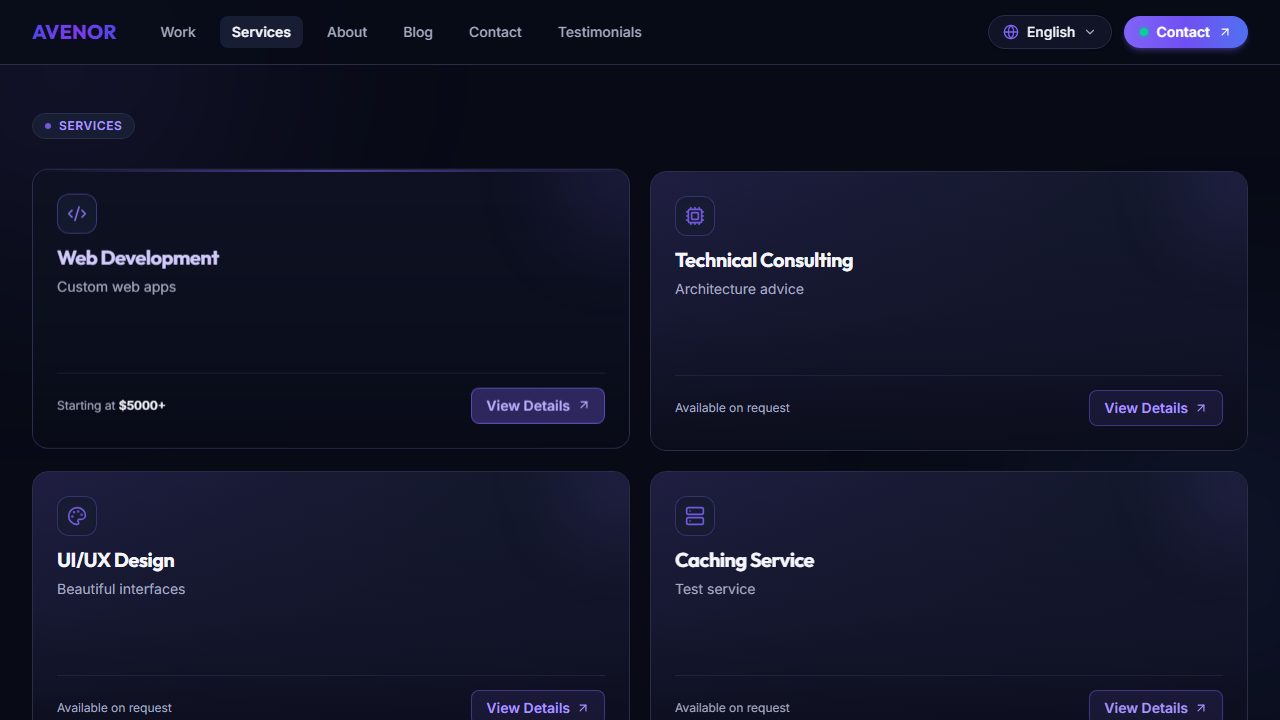
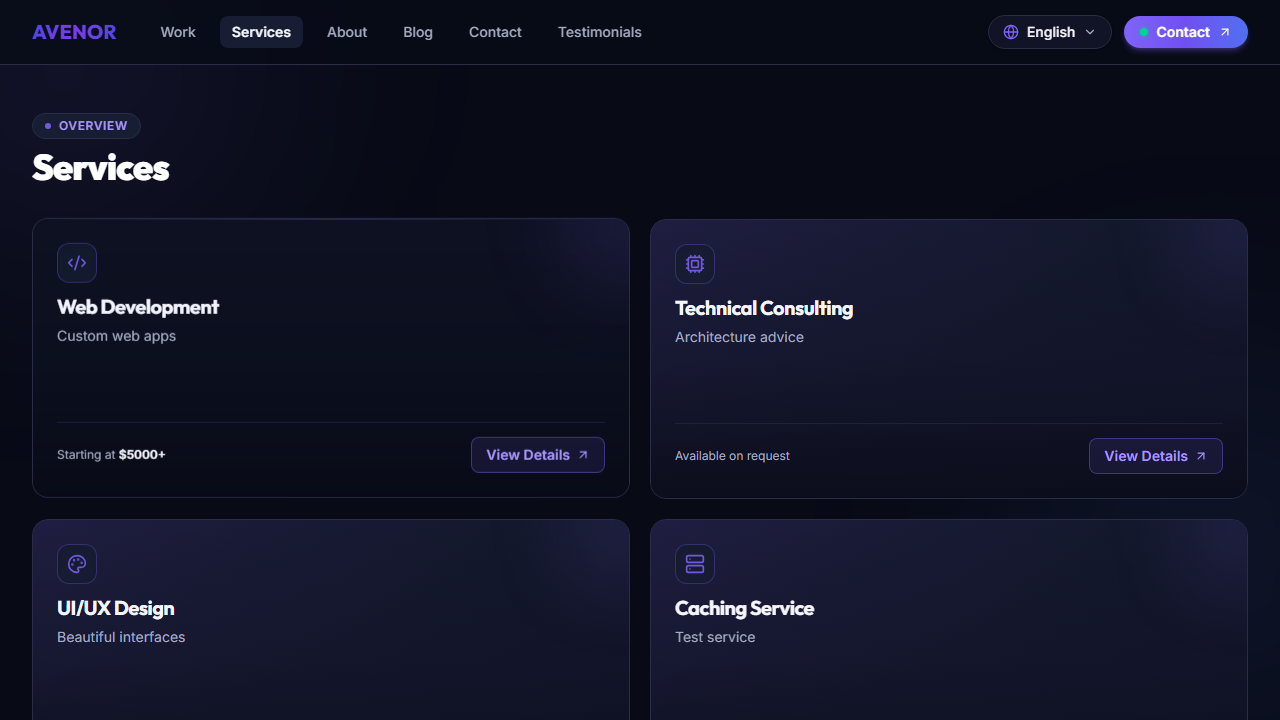
fix: Fixing the blog page build bug

diff --git a/app/[locale]/(public)/about/page.tsx b/app/[locale]/(public)/about/page.tsx
@@ -89,7 +89,7 @@ export default async function AboutPage() {
           <div className="relative z-10 grid grid-cols-1 md:grid-cols-12 gap-8 lg:gap-10 items-stretch">
             {/* Cinematic Profile Visual on Left (Vertical Composition) */}
             <div className="md:col-span-5 lg:col-span-4 flex flex-col items-center justify-center">
-              <div className="relative w-full max-w-[280px] sm:max-w-[320px] md:max-w-none aspect-[3/4] rounded-2xl overflow-hidden border border-[#8063F7]/40 bg-[#171D32] shadow-2xl shadow-black/50 group-hover:border-[#8063F7]/70 group-hover:shadow-[0_12px_36px_rgba(128,99,247,0.2)] transition-all duration-500 flex items-center justify-center">
+              <div className="relative w-48 h-48 md:w-full md:h-auto max-w-[280px] sm:max-w-[320px] md:max-w-none aspect-[3/4] rounded-2xl overflow-hidden border border-[#8063F7]/40 bg-[#171D32] shadow-2xl shadow-black/50 group-hover:border-[#8063F7]/70 group-hover:shadow-[0_12px_36px_rgba(128,99,247,0.2)] transition-all duration-500 flex items-center justify-center">
                 {avatarMedia ? (
                   <MediaRenderer
                     url={avatarMedia.url}
@@ -231,7 +231,7 @@ export default async function AboutPage() {
                           {new Date(exp.startDate).getFullYear()} – {exp.endDate ? new Date(exp.endDate).getFullYear() : t('present')}
                         </span>
                       </div>
-                      <p className="text-xs sm:text-sm font-semibold text-[#8063F7]">
+                      <p className="text-xs sm:text-sm font-semibold text-[#A995FF]">
                         {exp.organization}
                       </p>
                       {exp.description && (

diff --git a/app/[locale]/(public)/blog/page.tsx b/app/[locale]/(public)/blog/page.tsx
@@ -64,15 +64,14 @@ export default async function BlogIndexPage({ searchParams }: { searchParams: Pr
           {/* Title and description on left */}
           <div className="space-y-2 max-w-xl">
             <div className="flex items-center gap-2">
-
               <span className="inline-flex items-center gap-2 rounded-full border border-[#292D45] bg-[#171D32] px-3 py-1 text-xs font-semibold uppercase tracking-wider text-[#A995FF]">
                 <span className="h-1.5 w-1.5 rounded-full bg-[#8063F7] animate-pulse" />
-
-                {t('title')}
+                Articles
               </span>
             </div>
-
-
+            <h1 className="text-3xl sm:text-4xl font-heading font-black tracking-tight text-white">
+              {t('title')}
+            </h1>
           </div>
 
           {/* Search field and compact search action on right */}
@@ -165,7 +164,7 @@ export default async function BlogIndexPage({ searchParams }: { searchParams: Pr
                 {/* Left-side Text: Vertically aligned along left edge and vertically centered in card */}
                 <div className="my-auto space-y-1.5">
                   <h2 className="font-heading text-lg sm:text-xl font-bold tracking-tight text-[#F5F6FC] transition-colors group-hover:text-[#A995FF]">
-                    <Link href={`/blog/${post.slug}`}>{post.title}</Link>
+                    <Link href={`/blog/${post.slug}`} className="hover:underline">{post.title}</Link>
                   </h2>
 
                   <p className="text-sm font-normal text-[#A5ABC1] leading-relaxed line-clamp-3">

diff --git a/app/[locale]/(public)/contact/page.tsx b/app/[locale]/(public)/contact/page.tsx
@@ -40,11 +40,9 @@ export default async function ContactPage() {
         <div className="space-y-2.5 max-w-2xl">
           <div className="flex flex-wrap items-center gap-2.5">
             <div className="flex items-center gap-2">
-
               <span className="inline-flex items-center gap-2 rounded-full border border-[#292D45] bg-[#171D32] px-3 py-1 text-xs font-semibold uppercase tracking-wider text-[#A995FF]">
                 <span className="h-1.5 w-1.5 rounded-full bg-[#8063F7] animate-pulse" />
-
-                {t('title')}
+                Get in Touch
               </span>
             </div>
             {profile?.availabilityStatus && (
@@ -54,6 +52,9 @@ export default async function ContactPage() {
               </span>
             )}
           </div>
+          <h1 className="text-3xl sm:text-4xl font-heading font-black tracking-tight text-white">
+            {t('title')}
+          </h1>
 
           <p className="text-sm sm:text-base text-[#A5ABC1] leading-relaxed">
             {t('subtitle')}
@@ -82,7 +83,7 @@ export default async function ContactPage() {
                   </span>
                   <a
                     href={`mailto:${publicEmail}`}
-                    className="text-sm sm:text-base font-semibold text-[#8063F7] hover:text-white transition-colors break-all block"
+                    className="text-sm sm:text-base font-semibold text-[#A995FF] hover:text-white transition-colors break-all block"
                   >
                     {publicEmail}
                   </a>

diff --git a/app/[locale]/(public)/privacy/page.tsx b/app/[locale]/(public)/privacy/page.tsx
@@ -42,7 +42,7 @@ export default async function PrivacyPage() {
       {/* Main Content Card */}
       <div className="group relative overflow-hidden rounded-2xl border border-[#292D45] bg-[#101426] p-6 sm:p-8 md:p-10 shadow-xl transition-all duration-300 hover:border-[#8063F7]/70 hover:shadow-2xl hover:shadow-[#8063F7]/10">
         <div className="pointer-events-none absolute top-0 left-0 right-0 h-[1.5px] bg-gradient-to-r from-transparent via-[#8063F7] to-transparent opacity-0 group-hover:opacity-100 transition-opacity duration-300 z-20" />
-        <div className="prose prose-invert max-w-none text-[#F5F6FC] prose-headings:font-heading prose-headings:text-[#F5F6FC] prose-headings:font-bold prose-headings:tracking-tight prose-p:text-[#A5ABC1] prose-p:leading-relaxed prose-li:text-[#A5ABC1] prose-strong:text-[#F5F6FC] prose-a:text-[#A995FF] hover:prose-a:text-white">
+        <div className="space-y-6 text-[#F5F6FC] [&>h2]:text-lg [&>h2]:sm:text-xl [&>h2]:font-bold [&>h2]:font-heading [&>h2]:text-[#F5F6FC] [&>h2]:pt-4 [&>h2]:border-t [&>h2]:border-[#292D45] [&>h2:first-child]:pt-0 [&>h2:first-child]:border-0 [&>p]:text-sm [&>p]:text-[#D0D4E4] [&>p]:leading-relaxed [&>ul]:space-y-2 [&>ul]:pl-5 [&>ul]:list-disc [&>ul>li]:text-sm [&>ul>li]:text-[#D0D4E4] [&_strong]:text-[#F5F6FC] [&_strong]:font-semibold">
           <h2>{t('h1')}</h2>
           <p>{t('p1_1')}</p>
           <ul>

diff --git a/app/[locale]/(public)/terms/page.tsx b/app/[locale]/(public)/terms/page.tsx
@@ -29,7 +29,7 @@ export default function TermsPage() {
       {/* Main Content Card */}
       <div className="group relative overflow-hidden rounded-2xl border border-[#292D45] bg-[#101426] p-6 sm:p-8 md:p-10 shadow-xl transition-all duration-300 hover:border-[#8063F7]/70 hover:shadow-2xl hover:shadow-[#8063F7]/10">
         <div className="pointer-events-none absolute top-0 left-0 right-0 h-[1.5px] bg-gradient-to-r from-transparent via-[#8063F7] to-transparent opacity-0 group-hover:opacity-100 transition-opacity duration-300 z-20" />
-        <div className="prose prose-invert max-w-none text-[#F5F6FC] prose-headings:font-heading prose-headings:text-[#F5F6FC] prose-headings:font-bold prose-headings:tracking-tight prose-p:text-[#A5ABC1] prose-p:leading-relaxed prose-li:text-[#A5ABC1] prose-strong:text-[#F5F6FC] prose-a:text-[#A995FF] hover:prose-a:text-white">
+        <div className="space-y-6 text-[#F5F6FC] [&>h2]:text-lg [&>h2]:sm:text-xl [&>h2]:font-bold [&>h2]:font-heading [&>h2]:text-[#F5F6FC] [&>h2]:pt-4 [&>h2]:border-t [&>h2]:border-[#292D45] [&>h2:first-child]:pt-0 [&>h2:first-child]:border-0 [&>p]:text-sm [&>p]:text-[#D0D4E4] [&>p]:leading-relaxed [&_strong]:text-[#F5F6FC] [&_strong]:font-semibold">
           <h2>{t('h1')}</h2>
           <p>{t('p1')}</p>
 

diff --git a/app/[locale]/(public)/services/page.tsx b/app/[locale]/(public)/services/page.tsx
@@ -76,14 +76,14 @@ export default async function ServicesPage() {
         {/* Compact, left-aligned page header aligned with the card grid */}
         <div className="mb-6 sm:mb-8 space-y-2">
           <div className="flex items-center gap-2">
-
             <span className="inline-flex items-center gap-2 rounded-full border border-[#292D45] bg-[#171D32] px-3 py-1 text-xs font-semibold uppercase tracking-wider text-[#A995FF]">
               <span className="h-1.5 w-1.5 rounded-full bg-[#8063F7] animate-pulse" />
-
-              {t('title')}
+              Overview
             </span>
           </div>
-
+          <h1 className="text-3xl sm:text-4xl font-heading font-black tracking-tight text-white">
+            {t('title')}
+          </h1>
         </div>
 
         {/* Services Grid: balanced two-column layout on desktop, 1 column on mobile, 16-20px gap */}

diff --git a/app/[locale]/(public)/page.tsx b/app/[locale]/(public)/page.tsx
@@ -726,12 +726,11 @@ export default async function HomePage(props?: {
                   </div>
                   <Link
                     href="/about"
-
                     className="group flex items-center gap-0.5 text-xs font-semibold text-[#A995FF] transition-colors hover:text-white"
                   >
                     <span className="inline-flex items-center gap-1.5 rounded-full border border-[#10B981]/25 bg-[#10B981]/10 px-2.5 py-1 text-xs font-medium text-[#10B981]">
                       <span className="h-1.5 w-1.5 rounded-full bg-[#10B981] animate-pulse" />
-                      {t('readFullBio')}
+                      {t('learnMore')}
                       <ArrowUpRight className="h-3.5 w-3.5 transition-transform group-hover:-translate-y-0.5 group-hover:translate-x-0.5" />
                     </span>
                   </Link>

diff --git a/app/[locale]/(public)/work/page.tsx b/app/[locale]/(public)/work/page.tsx
@@ -147,15 +147,14 @@ export default async function WorkPage({
         {/* Compact, left-aligned page header aligned with the card grid */}
         <div className="mb-6 space-y-2">
           <div className="flex items-center gap-2">
-
             <span className="inline-flex items-center gap-2 rounded-full border border-[#292D45] bg-[#171D32] px-3 py-1 text-xs font-semibold uppercase tracking-wider text-[#A995FF]">
               <span className="h-1.5 w-1.5 rounded-full bg-[#8063F7] animate-pulse" />
-
-              {t('title')}
+              Portfolio
             </span>
           </div>
-
-
+          <h1 className="text-3xl sm:text-4xl font-heading font-black tracking-tight text-white">
+            {t('title')}
+          </h1>
         </div>
 
         {/* Technology Filters: compact pills, clear violet active state, left-aligned */}

diff --git a/proxy.ts b/proxy.ts
@@ -30,10 +30,14 @@ export async function proxy(request: NextRequest) {
     return NextResponse.next();
   }
 
+  if (pathname === '/robots.txt' || pathname === '/sitemap.xml') {
+    return NextResponse.next();
+  }
+
   // Use next-intl middleware for all other routes
   return intlMiddleware(request);
 }
 
 export const config = {
-  matcher: ['/((?!api|_next/static|_next/image|mock-storage|favicon\\.ico|.*\\.(?:svg|png|jpg|jpeg|gif|webp|ico|css|woff2?|map)).*)'],
+  matcher: ['/((?!api|_next/static|_next/image|mock-storage|favicon\\.ico|robots\\.txt|sitemap\\.xml|.*\\.(?:svg|png|jpg|jpeg|gif|webp|ico|css|woff2?|map|txt|xml)).*)'],
 };
